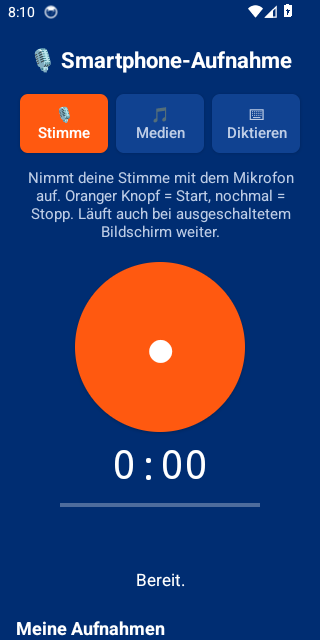
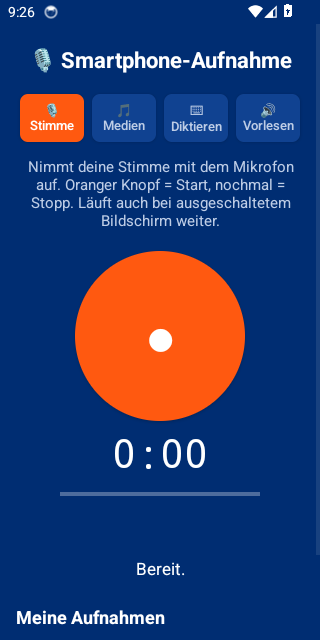
Tempo-Knoepfe zweizeilig, Vorschaubilder mit Vorlesen
Claude-Session: https://claude.ai/code/session_01PRfiDwwMM2rteVkUzJibij

diff --git a/app/src/main/java/de/smartphone/aufnahme/MainActivity.java b/app/src/main/java/de/smartphone/aufnahme/MainActivity.java
@@ -149,7 +149,7 @@ public class MainActivity extends Activity {
         tempoTitel.setPadding(dp(4), dp(10), 0, 0);
         bereichVorlesen.addView(tempoTitel);
         LinearLayout tempoReihe = new LinearLayout(this);
-        String[] tempoNamen = {"🐢 Langsam", "Normal", "🐇 Schnell"};
+        String[] tempoNamen = {"🐢\nLangsam", "🚶\nNormal", "🐇\nSchnell"};
         for (int i = 0; i < 3; i++) {
             final int nr = i;
             tempoKnoepfe[i] = aktionsKnopf(tempoNamen[i], v -> setzeTempo(nr));

diff --git a/README.md b/README.md
@@ -88,7 +88,7 @@ Die Spracherkennung braucht **Internet** (sie läuft über die Spracherkennung d
 1. In der **Claude-App** lange auf Claudes Antwort tippen → **Kopieren**.
    (Auch nach einem Gespräch im Sprachmodus steht die Antwort als Text im Chat.)
 2. In dieser App oben **Vorlesen** wählen und **📋 Einfügen** tippen.
-3. Tempo wählen: **🐢 Langsam**, **Normal** oder **🐇 Schnell**.
+3. Tempo wählen: **🐢 Langsam**, **🚶 Normal** oder **🐇 Schnell**.
 4. **▶ Anhören** liest den Text sofort vor (zum Probehören, ■ Stopp beendet).
 5. **💾 Als Aufnahme speichern** macht daraus eine Tondatei. Sie erscheint unten in **Meine Aufnahmen**
    (Name `Vorlesen_…m4a`) und lässt sich mit **📤 Senden** per WhatsApp oder E-Mail verschicken.
